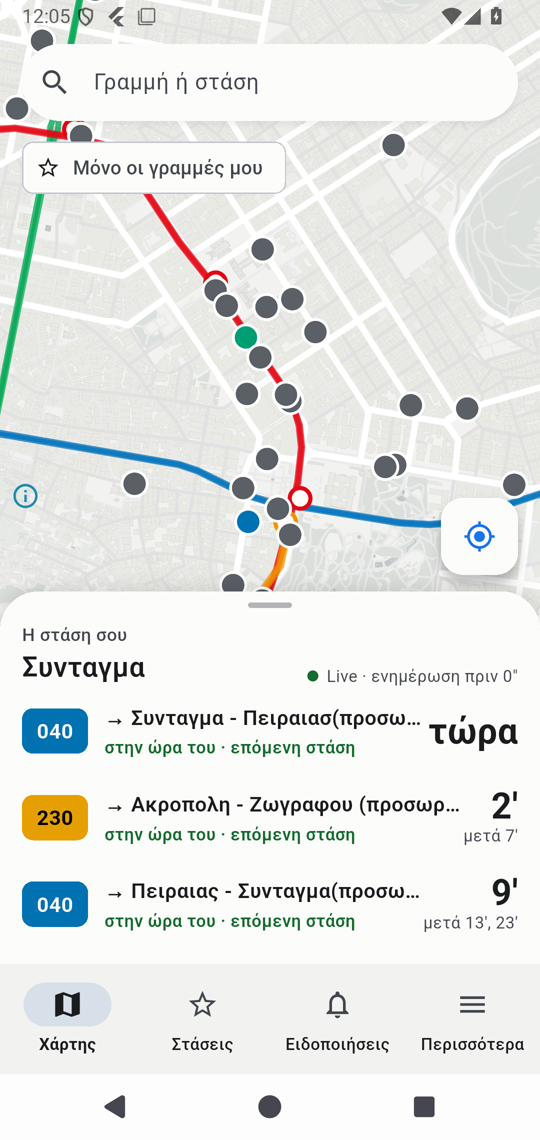
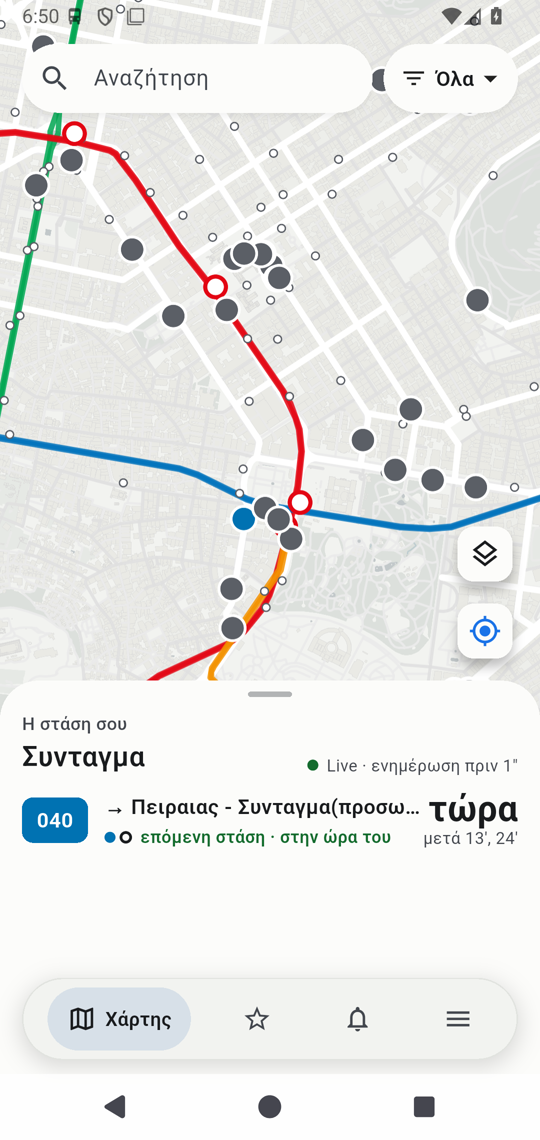
0.1.6: island tabs fit their names; README screenshots of 0.1.6
The open tab of the island is as wide as its name ("Ειδοποιήσεις" was cut
in 0.1.5); the other tabs show only their icon. Screenshots of the map, a
stop, the alert sheet and the rules from this build.

diff --git a/lib/ui/island_nav.dart b/lib/ui/island_nav.dart
@@ -35,9 +35,9 @@ class IslandNav extends StatelessWidget {
               boxShadow: const [BoxShadow(color: Color(0x26000000), blurRadius: 14, offset: Offset(0, 4))],
             ),
             padding: const EdgeInsets.all(6),
-            child: Row(children: [
-              for (var i = 0; i < items.length; i++)
-                Expanded(flex: i == index ? 3 : 2, child: _tab(context, items[i], i == index, () => onTap(i))),
+            // Each tab is as wide as it needs: the open one fits its whole name, the rest share the space.
+            child: Row(mainAxisAlignment: MainAxisAlignment.spaceAround, crossAxisAlignment: CrossAxisAlignment.stretch, children: [
+              for (var i = 0; i < items.length; i++) _tab(context, items[i], i == index, () => onTap(i)),
             ]),
           ),
         ),
@@ -60,15 +60,12 @@ class IslandNav extends StatelessWidget {
         child: AnimatedContainer(
           duration: const Duration(milliseconds: 200),
           decoration: BoxDecoration(color: on ? t.indicator : Colors.transparent, borderRadius: BorderRadius.circular(24)),
-          padding: const EdgeInsets.symmetric(horizontal: 10),
-          child: Row(mainAxisAlignment: MainAxisAlignment.center, children: [
+          padding: const EdgeInsets.symmetric(horizontal: 14),
+          child: Row(mainAxisSize: MainAxisSize.min, children: [
             Icon(it.icon, color: on ? t.ink : t.muted, size: 22),
             if (on) ...[
               const SizedBox(width: 6),
-              Flexible(
-                child: Text(it.label,
-                    maxLines: 1, overflow: TextOverflow.fade, softWrap: false, style: TextStyle(color: t.ink, fontSize: 14, fontWeight: FontWeight.w600)),
-              ),
+              Text(it.label, maxLines: 1, softWrap: false, style: TextStyle(color: t.ink, fontSize: 14, fontWeight: FontWeight.w600)),
             ],
           ]),
         ),
